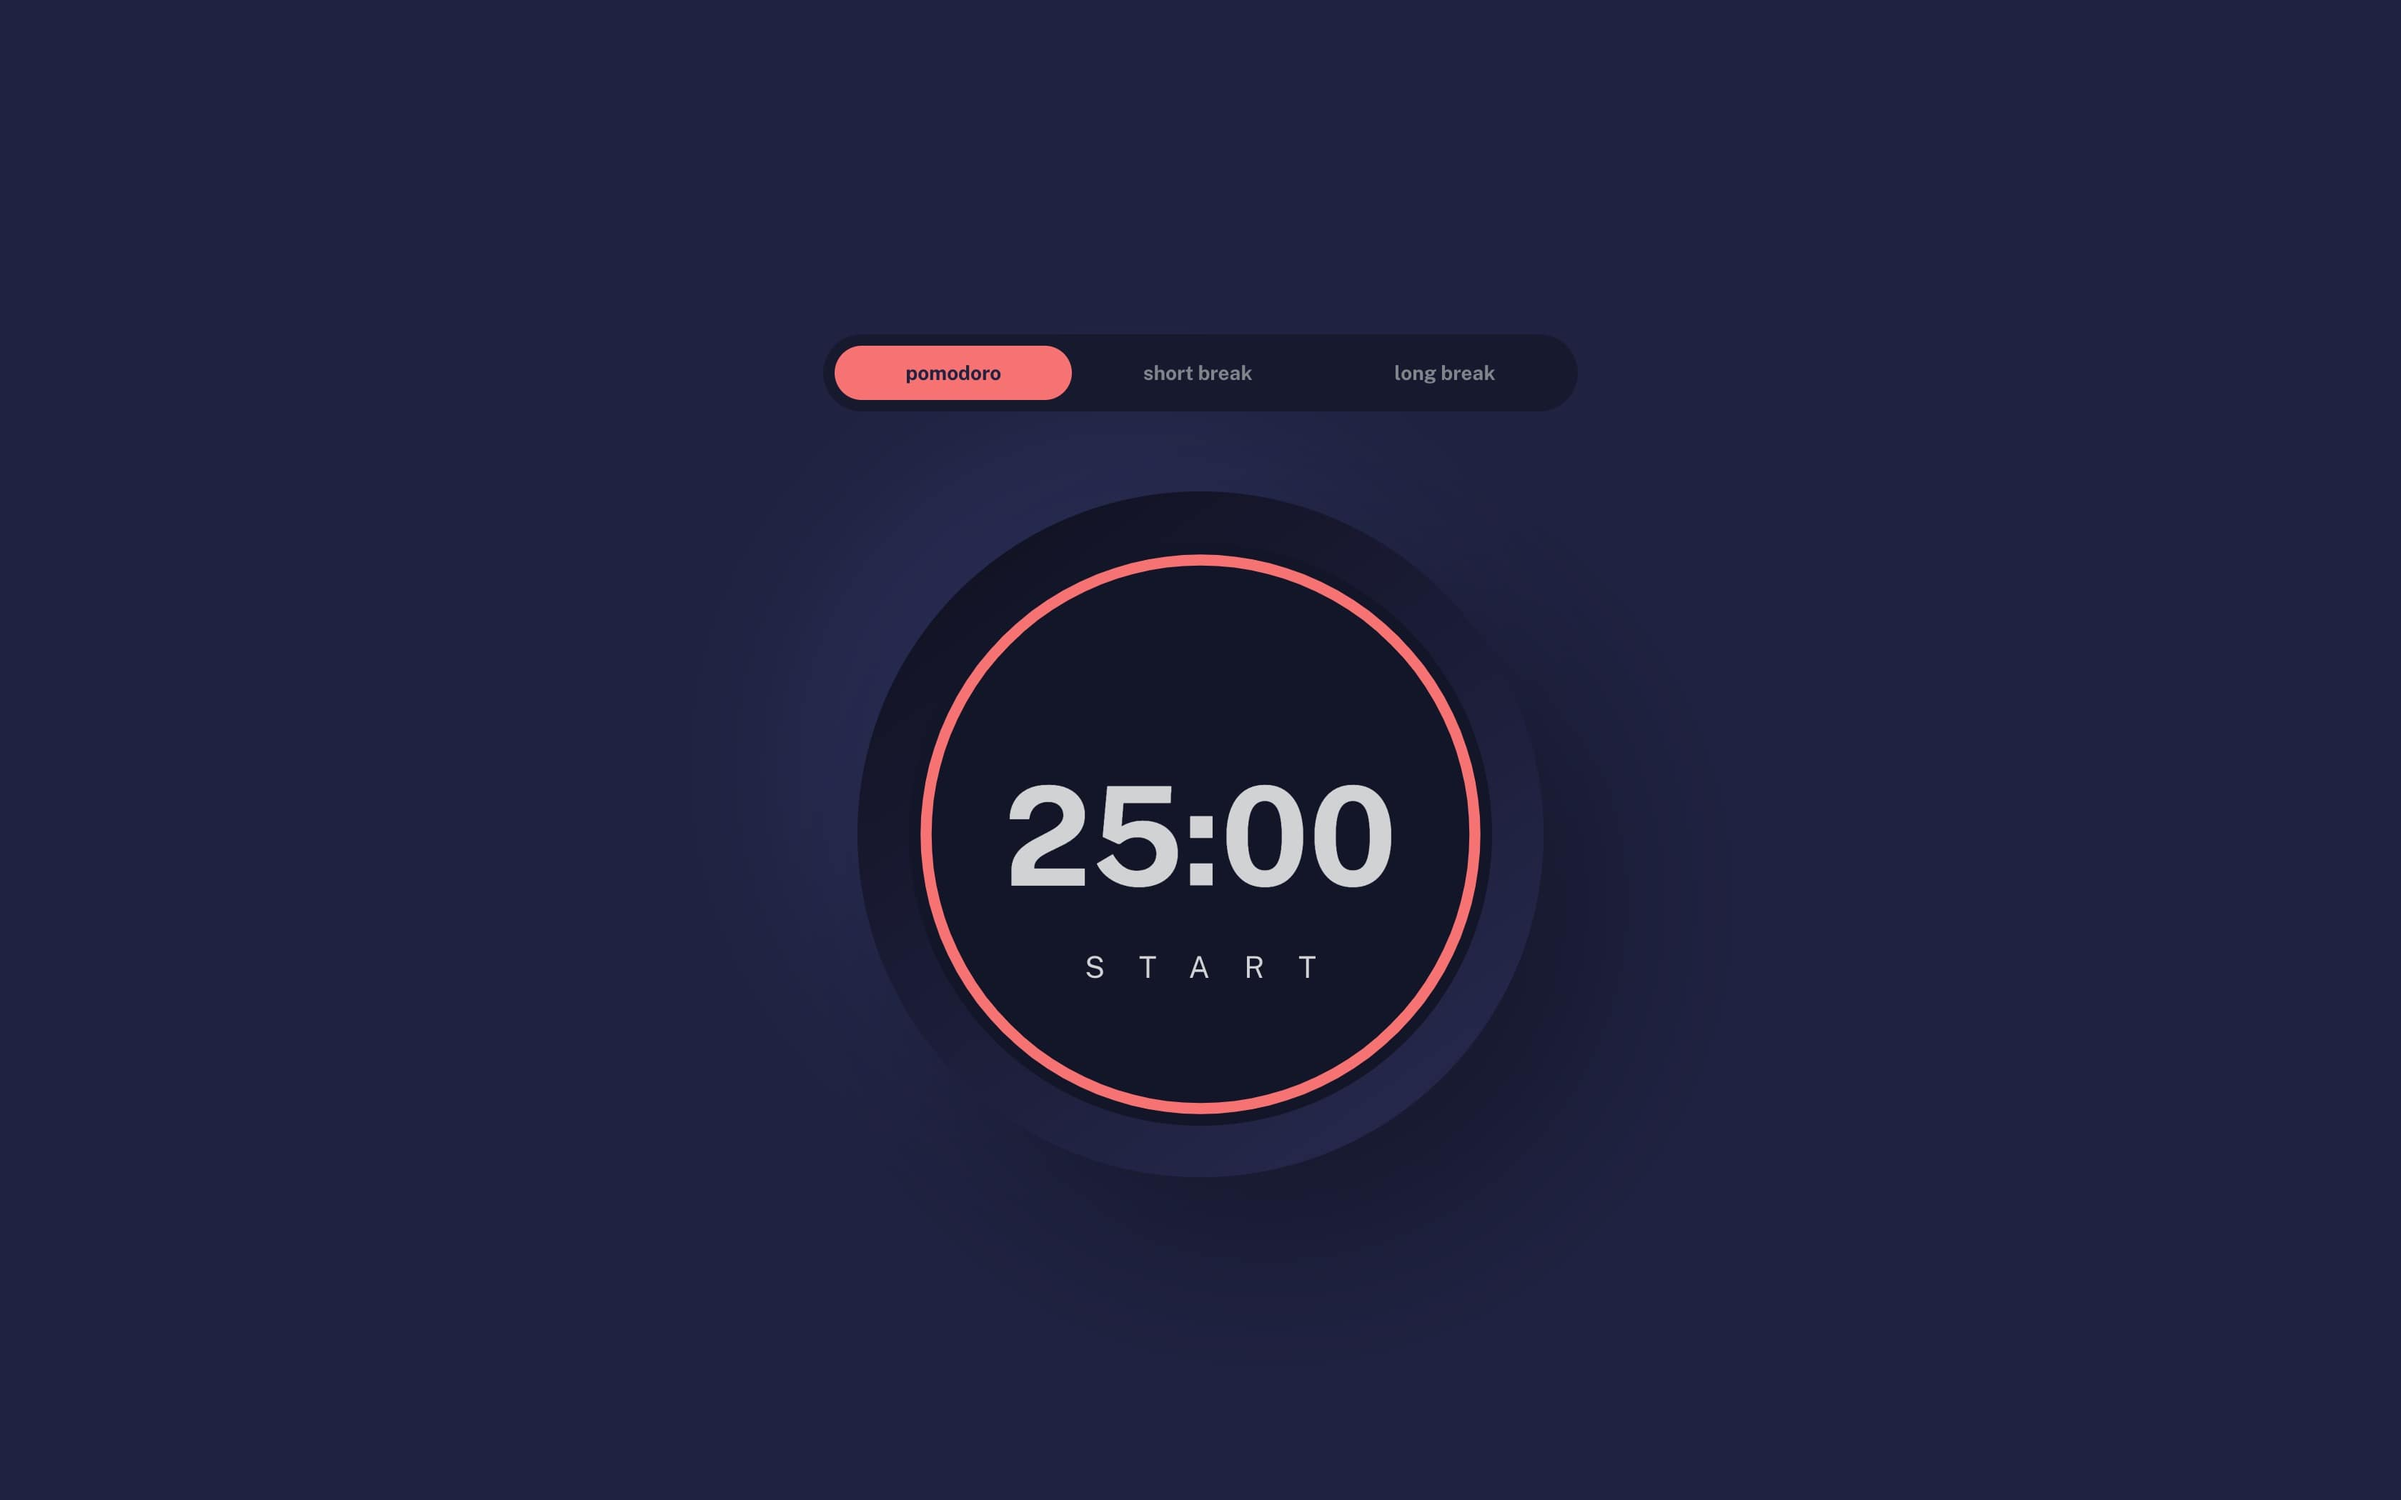
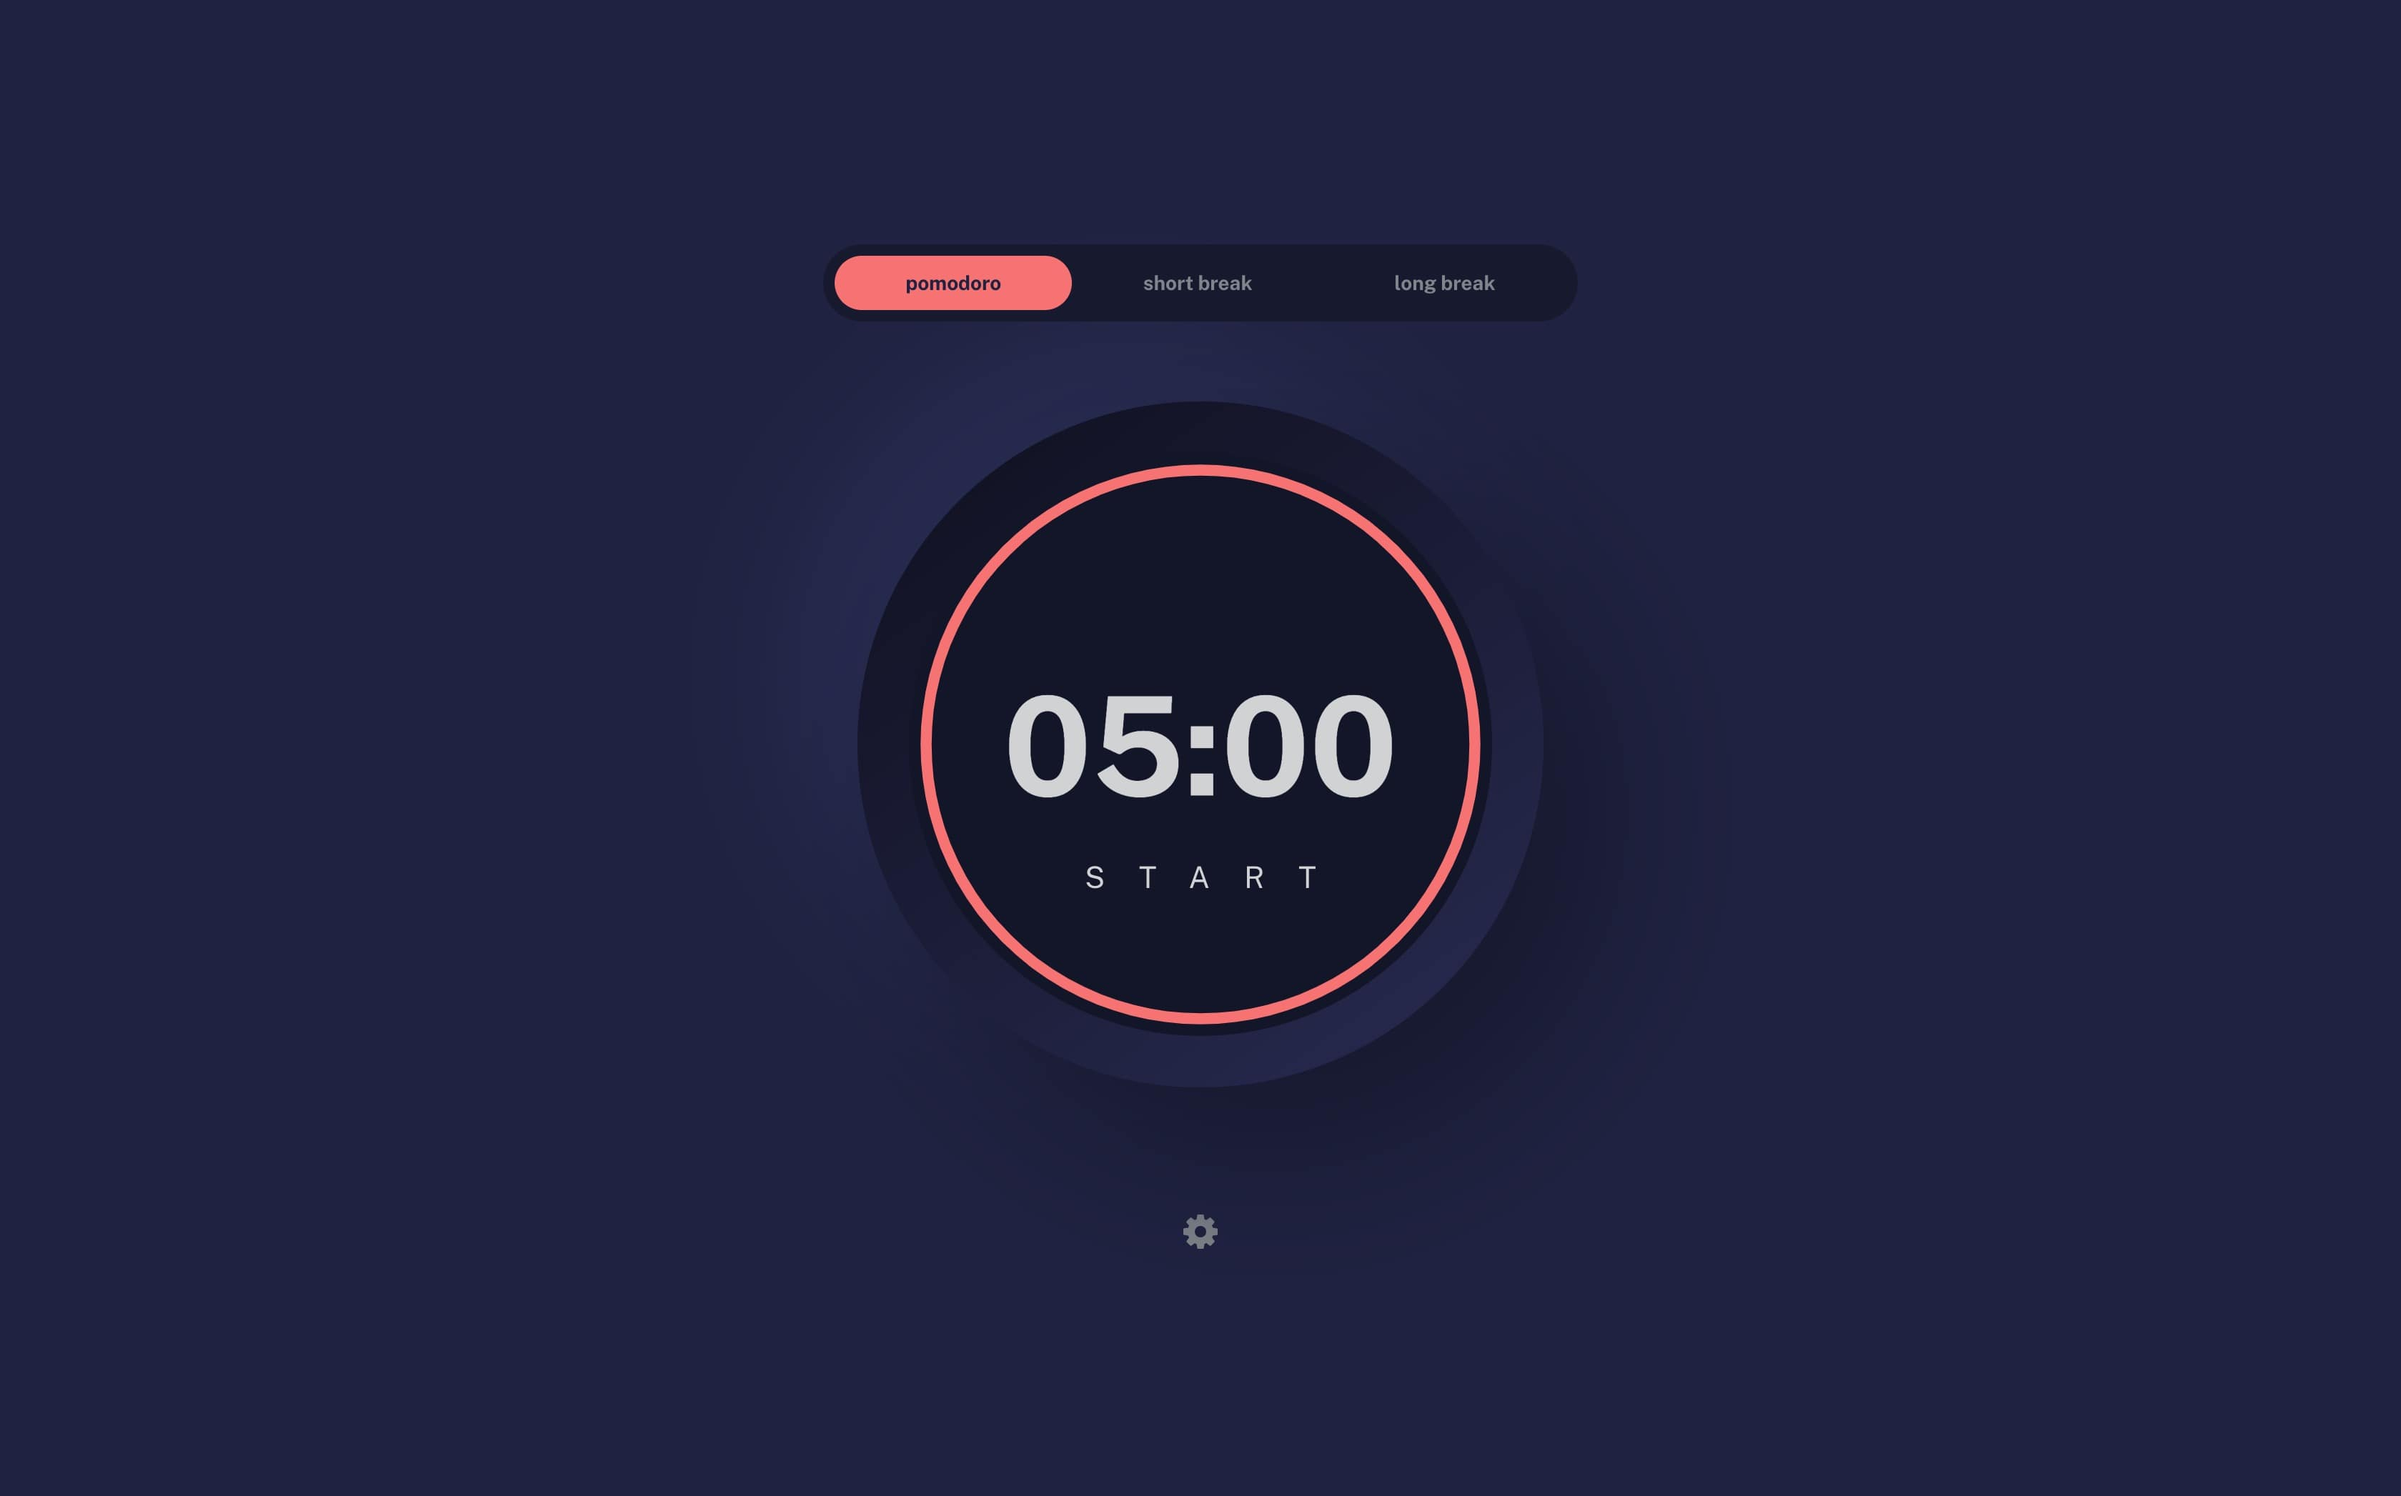
feat(app): Add caching of settings

diff --git a/pages/index.tsx b/pages/index.tsx
@@ -21,10 +21,11 @@ export type tabType = 'POMODORO' | 'SHORT_BREAK' | 'LONG_BREAK'
 
 // Component
 const Home = ({ }: IProps) => {
+    const [hasCheckedCachedSettings, setHasCheckedCachedSettings] = useState<boolean>(false);
     const [settings, setSettings] = useReducer((state: any, action: any) => ({ ...state, ...action }), {
         pomodoro: 25,
         shortBreak: 5,
-        longBreak: 5,
+        longBreak: 15,
         font: 'Public Sans',
         color: 'orange'
     })
@@ -56,13 +57,27 @@ const Home = ({ }: IProps) => {
     }
 
     useEffect(() => {
+        const cachedSettings = localStorage.getItem('settings');
+
+        if (cachedSettings) {
+            setSettings(JSON.parse(cachedSettings));
+        }
+
+        setTimeout(() => {
+            setHasCheckedCachedSettings(true)
+        }, 0);
+    }, []);
+
+    useEffect(() => {
         const root = document.documentElement;
 
         root.style.setProperty('--color-primary', `var(--color-${settings.color})`);
         root.style.setProperty('--font-primary', settings.font);
+
+        localStorage.setItem('settings', JSON.stringify(settings))
     }, [settings])
 
-    console.log(settings);
+    if (!hasCheckedCachedSettings) { return null; }
 
     return <>
         <TabAccordion>

diff --git a/src/components/Modal/Modal.stories.tsx b/src/components/Modal/Modal.stories.tsx
@@ -7,4 +7,4 @@ import Modal from './Modal';
 
 // Story
 storiesOf('General', module)
-    .add('Modal', () => <Modal />);
+    .add('Modal', () => <Modal isOpen={true} trigger='trigger' handleClose={() => { }}>Modal</Modal>);
